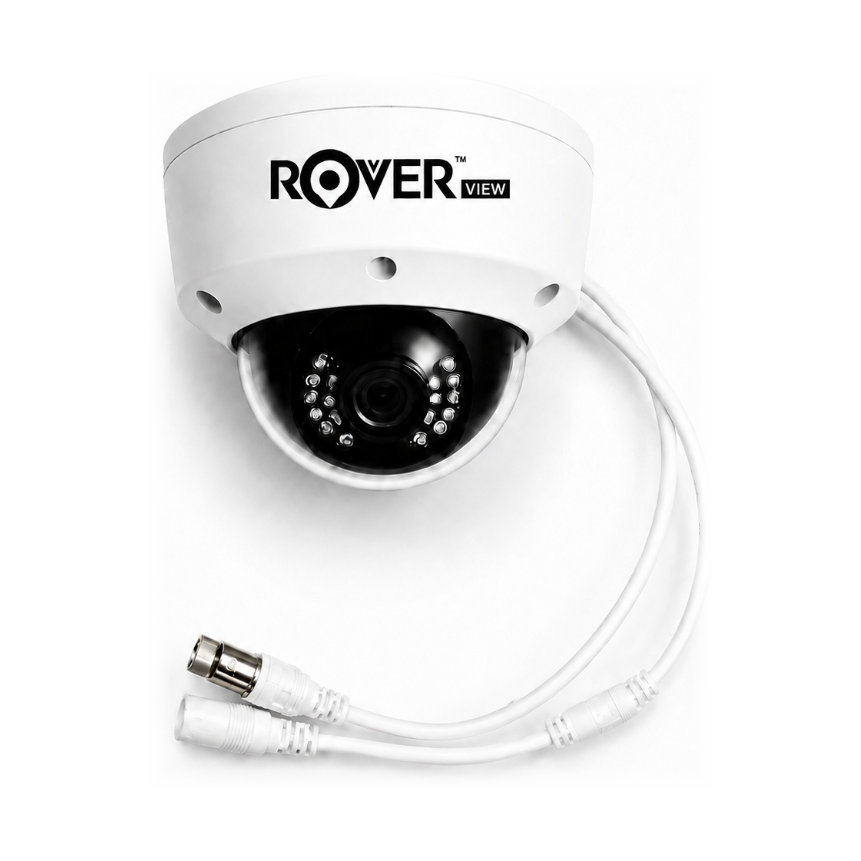
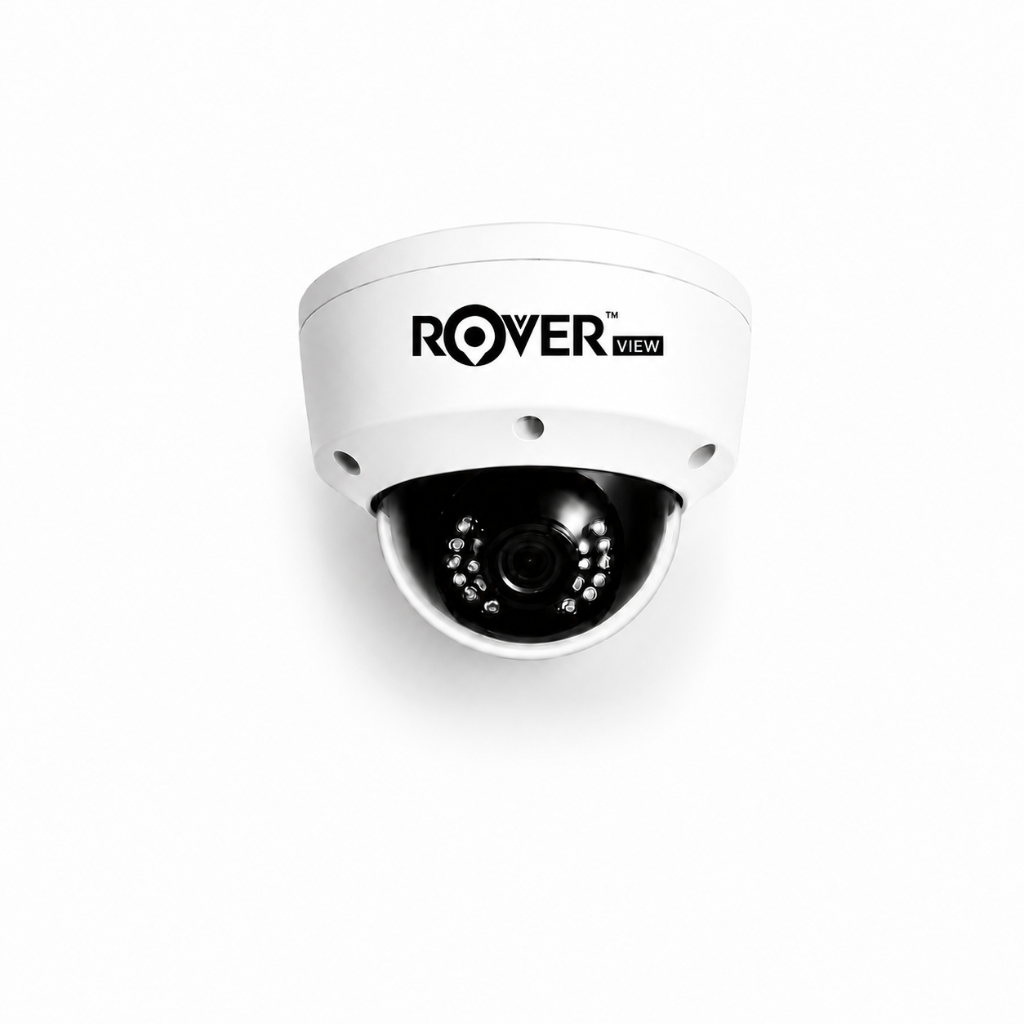
updated product images

diff --git a/lib/vehicle-hotspot-data.ts b/lib/vehicle-hotspot-data.ts
@@ -47,9 +47,9 @@ const vehicleHotspotConfig: VehicleHotspotConfig = {
     },
     {
       id: "ai-camera",
-      name: "Rover View",
-      slug: "rover-view",
-      image: "/images/verticals/frame-7123.png",
+      name: "Rover AI Dash Cam",
+      slug: "rover-ai-dash-cam",
+      image: "/images/products/rover-ai-dash-cam.png",
       truckAnchor: { x: 26, y: 42 },
       position: { x: 4, y: 40 },
       lineStyle: "solid",
@@ -113,7 +113,7 @@ const vehicleHotspotConfig: VehicleHotspotConfig = {
       id: "rear-camera",
       name: "4G/WiFi Vandal Proof Camera",
       slug: "vandal-proof-camera",
-      image: "/images/verticalb2c/frame-7115.png",
+      image: "/images/products/vandal-proof-camera.png",
       truckAnchor: { x: 90, y: 50 },
       position: { x: 96, y: 44 },
       lineStyle: "solid",

diff --git a/lib/product-categories.ts b/lib/product-categories.ts
@@ -79,7 +79,7 @@ export const productCategories: ProductCategory[] = [
 // Sourced from the closest related real product shot on apmgroups.in where one exists;
 // products with no reasonable real-photo match are omitted and fall back to an icon tile.
 export const placeholderProductImages: Record<string, string> = {
-  "Rover AI Dash Cam": "/images/verticalb2c/frame-7115.png",
+  "Rover AI Dash Cam": "/images/products/rover-ai-dash-cam.png",
   "Mobile DVR": "/images/verticalb2c/frame-7115.png",
   "4 Channel Recording Display Set": "/images/verticalb2c/frame-7115.png",
   "7'' Smart Recording Monitor": "/images/verticalb2c/frame-7115.png",

diff --git a/data/vehicle-apm-config.ts b/data/vehicle-apm-config.ts
@@ -173,8 +173,8 @@ export const PRODUCTS: ProductType[] = [
   {
     id: "ai-camera",
     name: "AI Camera System",
-    slug: "rover-view",
-    image: "/images/verticals/frame-7123.png",
+    slug: "rover-ai-dash-cam",
+    image: "/images/products/rover-ai-dash-cam.png",
     iconName: "tv",
     desc: "AI dashcam with built-in neural unit analyzing driver attentiveness, fatigue, and lane alignment.",
     compatibility: ["truck", "bus", "taxi", "mining-truck", "construction-vehicle", "passenger-vehicle", "industrial-vehicle"],
